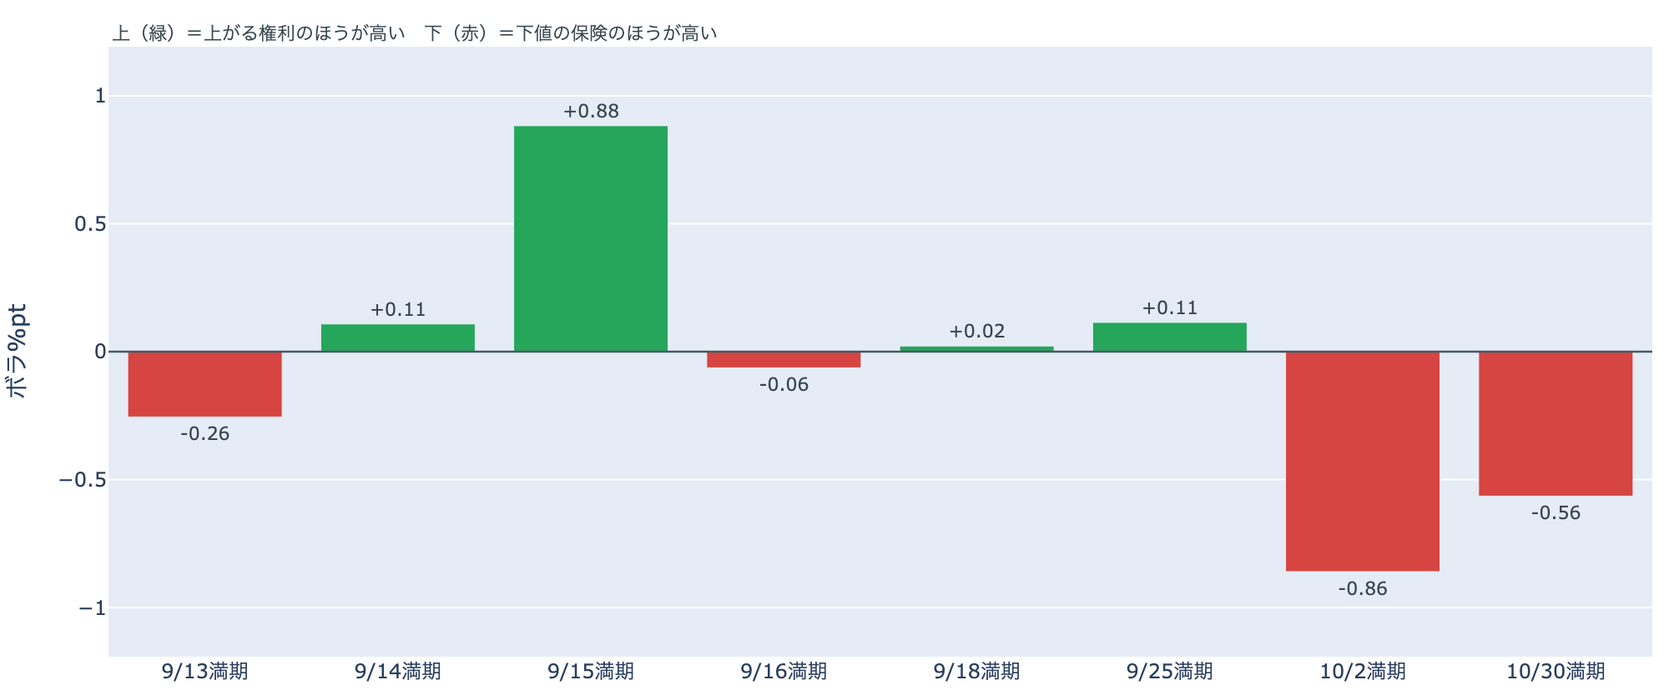
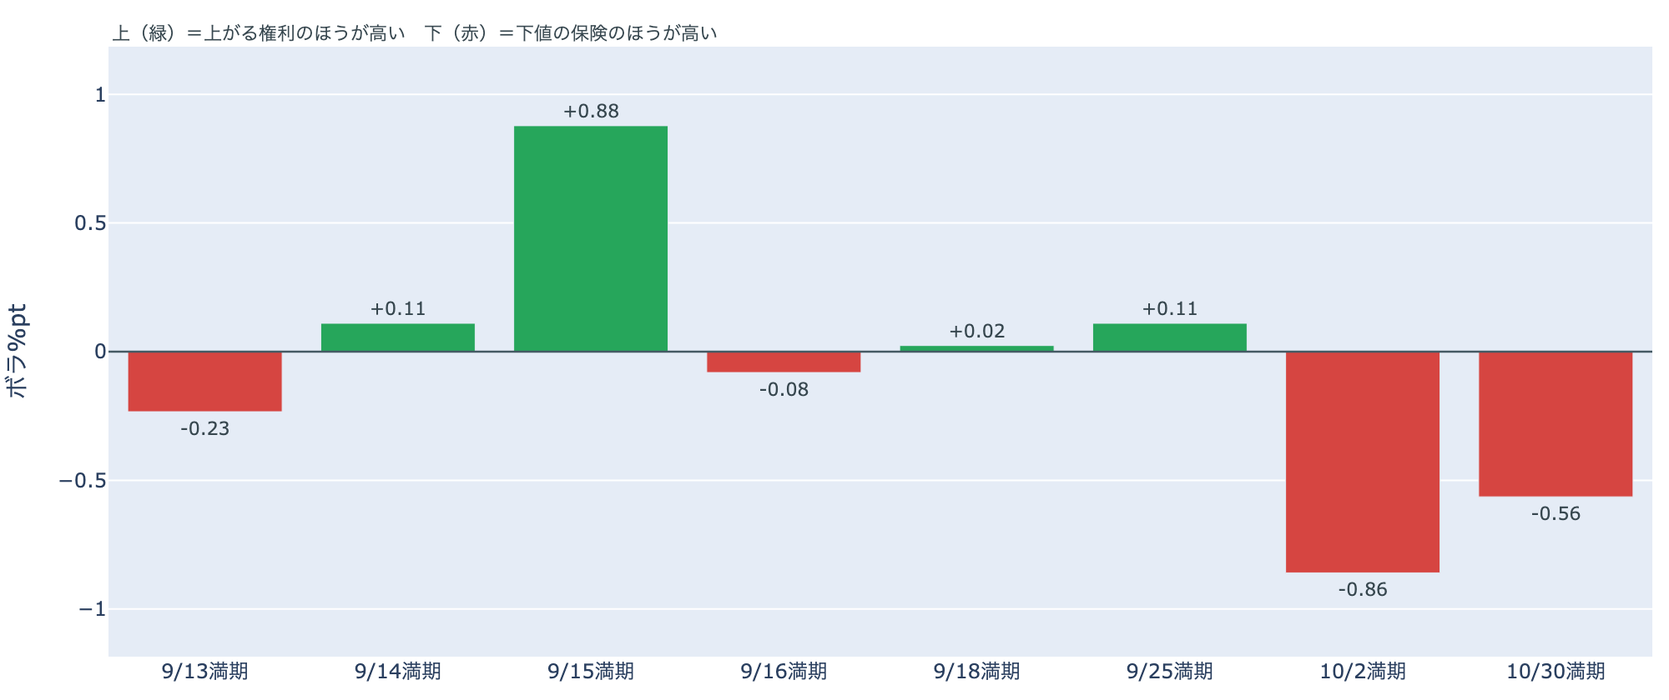
report(2026-09-13): 値幅0.6%の週末、建玉は減り止まった ― 9月25日の下値の保険は1日で剥がれ、備えが残るのは10月2日以降の満期だけ
ヘッドレス生成を Fable で作り直した版に差し替え。資金調達率の上乗せは
日次平均の年率を明記して引き算が閉じる形に直した（export が8時間の1点と
日次平均の2基準を出しており、本文が基準を混ぜていた）。図は macro_relative を追加し11枚。

Claude-Session: https://claude.ai/code/session_013CNs9m2S2fiXNY7GAkLf2i

diff --git a/market-reports/2026-09-13/README.md b/market-reports/2026-09-13/README.md
@@ -1,19 +1,19 @@
-# 5%往復の翌日は値幅0.6%の静けさ ― 建玉は減り止まり、9月25日に向けた下値の保険は1日で消えた
+# 値幅0.6%の週末、建玉は減り止まった ― 9月25日の下値の保険は1日で剥がれ、備えが残るのは10月2日以降の満期だけ
 
 **2026年9月13日**
 
-金曜夜に$79,800と$76,000を往復した価格は、週末に入ると$77,000台で止まりました。24時間の値幅は0.6%で、崩れも戻りもありません。動かなかった理由は中身にあります。**金曜に一気に閉じられた買い持ちの整理が一巡し、新たに降りる人も積む人もいなかった**からです。先物の買い持ちが払う金利は置いておくだけの金利を再び上回り、前日に初めて出た「9月25日に向けた下値の保険」は1日で消えました。外部環境は週末で動いていません。米国の現物買いだけが「止まったまま」で、そこが唯一まだ答えの出ていない場所です。
+土曜日の24時間、価格は$77,050〜$77,495の幅0.6%に収まりました。前夜の5%往復で薄くなった先物の買い持ちはそこで減り止まり、清算はゼロ。株・原油・金利の市場は閉まっていて、BTC自身の持ち高も動いていません。**動かなかった日**です。市場参加者の見方で前日から変わったのは一つで、**9月25日に向けて前日に付いた「下がったときの保険」の値段が1日で剥がれ、備えが残っているのは10月2日以降の満期だけ**になりました。週明けには法案の採決・米国の利上げ判断・日銀の会合が3日続けて並びます。
 
-（数値は9月13日7時5分（日本時間）までに取得した各種データに基づきます。価格・先物・オプションはその時点の実勢、市場心理は9月12日の確定値、オンチェーン指標は9月11日時点、ETF資金フローは9月11日（金曜）分まで（週末は集計がありません）。外部環境の終値は9月11日（金曜）時点。なお、オンチェーンの保有・年齢の指標には、ETF・取引所が預かっている分も含まれています。オプションはDeribit（BTCオプション建玉の大半を占める取引所）の全銘柄です。）
+（数値は9月13日7時5分（日本時間）までに取得した各種データに基づきます。価格・先物・オプションはその時点の実勢、市場心理は9月12日の確定値、オンチェーン指標は9月11日時点、ETF資金フローは9月11日分までです。外部環境の終値は9月11日時点で、週末のため更新がありません。なお、オンチェーンの保有・年齢の指標には、ETF・取引所が預かっている分も含まれています。オプションはDeribit（BTCオプション建玉の大半を占める取引所）の全銘柄です。）
 
 ## 定点観測：毎日同じ4つを見る
 
 話題は日替わりでも、この4つはどんな日も同じ場所に置きます。「いつもと違うか」を毎日同じ目で見るための物差しです。
 
-* **移動平均の並び**: 上向き5日目。50日線が200日線を上回るゴールデンクロス圏で、差は約$815（1.16%）と前日の$616からさらに開き、1%を超えてきました。価格は50日線の約9%上です。
-* **米国の買い（Coinbase Premium）**: 1週間平均で−0.03%。先週は−0.02%。その日の値は−0.07%で、前日の−0.19%からいつものブレの範囲内に戻りました。
-* **ETFの資金の出入り**: 直近7営業日で+5.4億ドルの入り超。確定分は4営業日続けて流出ですが、最終日の9月11日は−0.1億ドルで、前日の−2.8億ドルから幅がほぼ消えました。
-* **市場心理（Fear & Greed）**: 63の「強欲」。前日比+7ptで、前日の13pt後退を半分戻しました。1週間前は73、30日前は29です。
+* **移動平均の並び**: 上向き5日目。50日線が200日線を上回るゴールデンクロス圏で、差は約$815（1.2%）と前日の$616から開きました。価格は50日線の約9%上です。
+* **米国の買い（Coinbase Premium）**: 1週間平均で−0.03%。先週は−0.02%。その日の値−0.07%は、前日の−0.19%（いつものブレの3倍）からブレの内側に戻りました。
+* **ETFの資金の出入り**: 直近7営業日で+5.4億ドルの入り超。確定分は4営業日続けて流出ですが、9月11日分は−0.1億ドルと、前日の−2.8億ドルから幅が大きく縮みました。
+* **市場心理（Fear & Greed）**: 63の「強欲」。前日の56から7pt戻し、1週間前は73、30日前は29です。
 
 ![BTC価格と50日・200日移動平均](price.png)
 
@@ -23,87 +23,87 @@
 
 前日に書いた説明が、そのあとの動きと合っていたかを先に確かめます。予想の当て外れではなく、説明の妥当性の確認です。
 
-* ✔ **「金曜夜の5%往復は外部環境ではなく、レバレッジの整理だった」** — 合っていました。前日に「この説明が違うなら」として挙げた形（建玉が減り続けて価格が戻らず、資金調達率がマイナスに定着する）は出ていません。建玉（＝先物の未決済残高）は横ばい、資金調達率（＝先物の買い持ちが払う金利）はプラスのまま前日より上がり、清算は0件でした。
-* ✘ **「買いの勢いを測る数字が3つそろって抜けた」** — 3つのうち2つは1日で戻りました。先物の上乗せは短期金利すれすれ（+0.7pt）から+1.8ptへ、市場心理は+7ptで半分戻し。日次の振れを材料にしすぎていました。残っているのは米国の現物買いの弱さだけで、下の③で扱います。
-* — **「米国の現物買いは『止まった』から『引き始めた』へ動きかけている」** — まだ判定できません。週末はETFの集計が無く、判定に使える数字が増えていません。ただし手元の数字は前日より弱くなく、Coinbase Premiumの日次は−0.19%から−0.07%へ戻り、ETFの9月11日分は流出幅が−0.1億ドルまで縮みました。
-* ✔ **「長期側は前日と同じ姿で、中身の土台は変わっていない」** — 合っていました。9月11日時点の長期側は「量が減り、動いた分は利益側」の並びのままです。
+* ✔ **「5%の往復は外に押されたのではなく、証拠金の買い持ちが整理されたもの」** — 合っていました。需要の後退なら建玉が減ったあとも価格が戻らず資金調達率がマイナスに定着する形でしたが、翌日は建玉が減り止まり、資金調達率はプラスのまま、価格は$77,000台を保ちました。
+* ✘ **「9月25日をまたぐ期間の下値の保険が初めて上値の権利より高くなった＝来週の会合と四半期満期に向けた備え」** — 1日で合わなくなりました。9月25日満期の傾きは上がる権利がわずかに高い側へ戻り、持ち高は動いていません。前日の値付けは物価指標の夜に付いた一晩の値段だった、と説明し直します（下の3.②）。
+* — **「米国の現物買いは『止まった』から『引き始めた』へ動きかけている」** — まだ判定できません。Coinbase Premiumはブレの内側に戻り、ETFの9月11日分は流出幅が縮みました。「引き」は加速していませんが、週末で新しい数字がありません。
+* ✔ **「長期側は前日と同じ姿。利益での手放しが続き、勢いは半分のまま」** — 合っていました。9月11日時点も量は減り、動いた分は利益側で、1週間同じ幅です（下の3.④）。
 
 ## 1. 何が起きたか
 
 ![BTC価格の推移（1時間足・直近7日）](intraday.png)
 
-朝7時5分時点で約$77,300。24時間では+0.2%、レンジは$77,050〜$77,495で幅は0.6%です。金曜夜の往復のあと、土曜は一度も$77,000を割らず、$77,500も超えていません。1週間で最大の振れの翌日に、1週間で最小の値幅が来た形です。7日前比では−3.2%、30日前比では+21.8%。Hyperliquid（＝オンチェーンの先物取引所）で観測できた清算（＝証拠金不足で強制的に閉じられた取引）はこの24時間で0件でした。
+朝7時5分時点で約$77,258。24時間で+0.2%、レンジは$77,050〜$77,495で幅0.6%です。前夜の往復（幅5%）の8分の1で、この7日間で最も静かな24時間でした。7日前比では−3.2%、30日前比では+21.8%。Hyperliquid（＝オンチェーンの先物取引所）で観測できた清算（＝証拠金不足で強制的に閉じられた取引）は、この24時間で0件です。
 
-外部環境は週末で閉まっています。最後の確定は9月11日（金曜）で、S&P500は+0.9%と反発、VIX（＝株式市場の恐怖指数）は−11%、WTI原油は−2.4%で$100.05、米10年債利回りは4.97%へ上昇。5営業日ではS&P500が−1.2%、原油が+9.6%で、株安・原油高の週でした。BTCの30日相関は株と+0.20、金と+0.69です。
+外部環境は週末で休場です。金曜9月11日の終値は、S&P500が+0.9%、原油は−2.4%でちょうど$100、米10年債利回りは4.97%。5営業日で見ると、原油が+9.6%、株が−1.2%、金が−2.8%。BTCの−3.2%は、株よりも金の下げ幅に近い並びでした。
 
 ## 2. なぜ動いたか：中身か、外か
 
-今日は「なぜ動かなかったか」を切り分けます。
+![BTCと主要マクロ資産の相対推移（起点＝100）](macro_relative.png)
 
-* **見える**: 外部環境はこの24時間、何も動いていません（市場が閉まっています）。BTC自身の持ち高は、建玉が103,218BTCで前日とほぼ同じ（1週間では−4.2%のまま）。資金調達率は8時間あたり+0.0045%（年率換算 約+5.0%）で、短期金利を引いた上乗せは+1.78pt。前日の+0.73ptから戻りました。オプション全体の保険料は36.8で、過去1年の下から16%の位置です。
-* **読み**: 金曜夜に起きたのはレバレッジ（＝元手より大きな金額を建てること）の整理で、それが一巡したのが土曜です。閉じられるべき持ち高は閉じられ、残った買い持ちは金利を払って残っています。降りる人が止まり、新しく積む人もいない。**中身は変わっていません。週末の静けさは「整理が終わった」の形です。**
-* **この説明が違うなら**: 整理がまだ終わっていないなら、週明けに出来高が戻ったとき、建玉がさらに減りながら価格が下げ、資金調達率がマイナスに転じる形で見えます。整理が終わっているなら、建玉は横ばいか増加で、資金調達率はプラスのままです。
+* **見える**: 外の市場が閉まっている24時間で、BTCの動きも0.6%。建玉（＝先物の未決済残高）は103,218BTCで前日（103,303BTC）とほぼ同じ、7日では−4.2%。資金調達率（＝先物の買い持ちが払う金利）は8時間あたり+0.0045%（年率換算 約+5.0%）で、前日の同じ時間帯の年率3.1%から小幅に戻りました。1日を通してならした年率は+5.69%で、短期金利（13週Tビル 3.91%）を引いた上乗せは+1.78pt。前日の+0.73pt（ならした年率+4.64%）から広がっています。清算は0件。短期保有層の平均取得原価は9月11日時点で$71,150で、価格はその約8%上です。BTCと金の30日相関は+0.69、株とは+0.20。
+* **読み**: 今日は「なぜ動いたか」を探す日ではなく、**前夜の整理が一巡して、新しい持ち高がどちら側にも積まれていない**日です。建玉が減り止まり、資金調達率がプラスのまま戻ったことは、追加の投げが出ていないことと、買い持ちが残っていることの両方を示します。参加者は前夜の5%往復を流れの変化ではなく、一時的な押しとして扱いました。直近に買った人の平均取得原価より価格が上にあるので、含み損から強いられる売りも出ていません。1週間の目で見ると、BTCは金と同じ幅で下げ、株は半分、原油は上げています。**この1週間の下げは外部環境（原油高と金利上昇）と並んで起き、土曜日はその外部環境が止まったので、BTCも止まった**、というのが最も単純な説明です。
+* **この説明が違うなら**: 一巡ではなく静かな撤退が続いているなら、週明けに外の市場が開いたあとも建玉が減り続け、資金調達率がゼロ近辺からマイナスへ沈み、上がる権利の値段が全満期で下値の保険を下回る形になります。
 
-価格のいる$70,000〜$80,000の帯には、9月11日時点の分布で全供給の10.7%が積まれています。上端の$80,000までは3.5%、すぐ上の$80,000〜$90,000には9.4%です。
+原油の金曜の−2.4%は、ホルムズ海峡の航行をめぐるイランと湾岸諸国の外相協議が9月14日にオマーンで開かれるという報道と並んで起きました。原油は依然$100の水準で、リスク資産全体の重しになりうる状況は変わっていません。
 
 ## 3. 市場参加者はいまどう見ているか
 
-### ① 先物：買い持ちの減少が止まり、上乗せは短期金利の上へ戻った
+### ① 先物：薄くなった買い持ちが、そのまま残っている
 
 ![先物: 資金調達率と建玉](futures.png)
 
-* **見える**: 資金調達率はプラスが22回連続（約7日）で、8時間あたり+0.0045%（年率換算 約+5.0%）。前日から上がりましたが、30日平均は下回っています。短期金利（13週Tビル 3.91%）を引いた上乗せは+1.78ptで、直近34日の平均+3.44ptの半分。建玉は103,218BTCで、9月3日の急騰時に積まれた分が消えた水準のまま横ばいです。
-* **読み**: 傾きは弱まったままですが、減り止まりました。買い持ち（ロング）が払う金利が、置いておくだけの金利を再び上回った。つまり**上に賭けている人は残っていて、降りる動きは金曜で終わった**という形です。上限（8時間あたり±0.3%）には遠く、過熱ではありません。
-* **この説明が違うなら**: 降りる動きが終わっていないなら、建玉が減り続け、上乗せが再び短期金利を割り込む形で見えます。
+* **見える**: 資金調達率はプラスが22回連続（約7日）で、8時間あたり+0.0045%（年率換算 約+5.0%）。30日平均（0.0066%）の7割弱の水準です。1日を通してならした年率+5.69%から短期金利（13週Tビル 3.91%）を引いた上乗せは+1.78pt。建玉は103,218BTCで、9月3日の急騰時に積まれた分が消えた水準に1日とどまっています。
+* **読み**: 買い持ち（ロング）に傾いた状態は続き、傾きは前日ほど弱くありません。前夜に1段薄くなった買い持ちが、そこから逃げもせず積み増しもせず、**そのまま残っている**形です。上限（8時間あたり±0.3%）には遠く、過熱ではありません。
+* **この説明が違うなら**: 残った買い持ちが手仕舞いに向かっているなら、週明けに建玉が再び減り、資金調達率がゼロ近辺へ沈みます。逆に新規の買い持ちが入るなら、建玉が増えて資金調達率が30日平均を上回ります。
 
-### ② オプション：9月25日に向けた下値の保険は1日で消え、備えは10月以降だけに残った
+### ② オプション：9月25日の保険は剥がれ、備えは10月2日以降の満期だけ
 
 ![オプション: 満期ごとの保険料](options_iv_term.png)
 
 ![オプション: 満期ごとの傾き](options_skew.png)
 
-* **見える**: 全体の保険料（DVOL）は36.8で、過去1年の下から16%。直近30日に実際に起きた変動（47.6）より10.8pt安いままです。満期ごとの保険料は手前ほど低く先ほど高い平常の形で、特定の日を警戒する値段は付いていません。傾きは、前日に「下値の保険が高い」へ転じていた9月25日満期がほぼ差なしに戻りました。下値の保険が高いのは10月2日満期と10月30日満期だけです。9月15日満期は上がる権利のほうがはっきり高く、9月16日満期はほぼ差なし。
-* **読み**: 前日の一番の変化だった「9月25日をまたぐ区間の備え」は、1日で外されました。参加者が備えを残しているのは10月以降で、**来週の法案採決と金利会合をまたぐ満期には、下向きの備えが付いていません。** 9月15日満期で上がる権利が高いのは、その日のイベントを上向きに見ている人のほうが多いという値段です。全体の保険料が実際の変動より安いままなので、水準としては「保険を買う人が少ない」側で、恐怖ではありません。
-* **この説明が違うなら**: 備えを外したのではなく週末で気配が薄いだけなら、週明けに9月25日満期の傾きが再び下値の保険側へ戻り、全体の保険料が実際の変動へ近づく形で見えます。
+* **見える**: 全体の保険料は36.9で、過去1年の下から16%の位置。実際に起きた変動（47.6）より10.6pt安いままです。満期ごとの保険料は手前が低く先が高い平常の形で、9月16日（FOMCの日）にも突出はありません。**傾きは満期の途中で符号が変わっています。** 9月15日満期は上がる権利が明確に高く（+0.88）、9月25日満期は+0.11でほぼ差なし。**前日に下値の保険が高かった9月25日の値付けは1日で消え**、下値の保険が高いのは10月2日満期（−0.86）と10月30日満期（−0.56）だけになりました。
+* **読み**: 参加者は「来週の会合と法案採決、そして9月25日の四半期満期までは荒れない」という値付けに戻り、**備えを10月以降の満期に置いています**。全体の保険料が実際の変動より安いままなので、守りを固めている状態ではなく、恐怖の水準でもありません。9月15日満期で上がる権利が高いのは、法案採決の日に上への賭けが乗っている形です。持ち高（下）が変わらず値段の付き方だけ戻ったので、前日の保険は買い足されたのではなく、一晩の値段が付いて剥がれたと読みます。
+* **この説明が違うなら**: 「荒れない」という値付けが誤っているなら、週明けに9月16日・18日満期の保険料が跳ね、9月25日満期で下値の保険が再び上がる権利を上回る形になります。
 
 ![オプション: 9月25日満期の持ち高](options_oi.png)
 
-* **見える**: 9月25日満期の建玉は185,020BTCで全満期の45%。現値より上の権利（コール）が約9.4万BTC、下の保険（プット）が約5.4万BTCで、前日とほぼ同じです。現値の+15%以上に賭けた権利が約4.9万BTC、−15%以下の保険が約3.2万BTC。マックスペイン（＝買い手の損失が最大になる満期価格）は$72,000で、現値の7%下にあります。持ち高が集中しているのは$78,000（12.7%）と$80,000（11.0%）の帯です。
-* **読み**: 持ち高の形は2日続けて動いていません。動いたのは値段の付き方だけで、前日に買い足された保険が今日は外れた。**上に賭けた人は降りていません。** 上に賭けた持ち高が報われるには$80,000の帯を取り戻す必要がある、という構図はそのままで、その期限が9月25日です。
+* **見える**: 9月25日満期の持ち高は185,020BTCで全満期の45%。現値より上の権利（コール）が約9.4万BTC、下の保険（プット）が約5.4万BTCで、前日とほぼ同じ形です。現値の+15%以上に約4.9万BTC、−15%以下に約3.2万BTC。マックスペイン（＝買い手の損失が最大になる満期価格）は$72,000で、現値の7%下です。オプションの集中（＝満期に向けて価格が引き寄せられやすい水準）は$78,000に12.7%、$80,000に11.0%、$75,000に8.5%で、**価格はその帯の中**にいます。
+* **読み**: 上に賭けた持ち高のほうが多い形は変わらず、上に賭けた側は降りていません。その持ち高が報われるには帯の上端$80,000より上が要り、期限は9月25日です。マックスペインについては、満期に向けて引き寄せられる力が働くと言われる水準がいまより7%下にある、という構図の説明までにとどめます。
 
-### ③ 米国の現物買い：「引き始めた」ではなく「止まっている」
+### ③ 米国の現物買い：「止まっている」が続き、「引き」は加速していない
 
 ![Coinbase Premium](premium.png)
 
 ![ETF 日次 純流出入](etf_daily.png)
 
-* **見える**: Coinbase Premium（＝米国とそれ以外の価格差）は1週間平均で−0.03%、先週は−0.02%。その日の値は−0.07%で、いつものブレの1.2倍と範囲内です。前日の−0.19%（ブレの3倍）は1日で消えました。ETF（＝証券口座で買えるBTCの投資信託）は9月8日から4営業日続けて流出で、幅は−0.5億 → −1.2億 → −2.8億 → −0.1億ドル。7営業日の合計はまだ+5.4億ドルの入り超です。
-* **読み**: 前日は「引き始めている可能性」と書きましたが、今日の数字はそこまで弱くありません。1週間平均の−0.03%は8月中旬の−0.10%とは距離があり、ETFの流出も最終日に幅がほぼ消えています。**米国側の買い手は止まっている。引いてはいない。** 前日の−0.19%は物価統計の夜の1日の歪みでした。なお、1年以上動いていない供給は9月11日時点で63.1%と3か月で+1.6pt厚くなっており、同じ規模の買いでも価格が動きやすい下地は続いています。
-* **この説明が違うなら**: 止まっているのではなく引いているなら、週明け以降の集計で流出幅が再び広がり、Premiumの1週間平均が8月中旬の水準へ向かって沈む形で見えます。
+* **見える**: Coinbase Premium（＝米国とそれ以外の価格差）は1週間平均で−0.03%、先週の−0.02%からわずかに下向き。その日の値−0.07%はいつものブレの1.2倍で、前日の3倍から内側に戻りました。ETF（＝証券口座で買えるBTCの投資信託）は9月11日分が−0.1億ドルで、流出は4営業日連続ですが、幅は−0.5億 → −1.2億 → −2.8億 → −0.1億と最終日で急に縮みました。7営業日の合計はまだ+5.4億ドルの入り超です。
+* **読み**: 前日に「引き始めた可能性」と書いた動きは、金曜の数字では加速しませんでした。米国側の買い手は**止まっているが、引いてはいない**、が今朝の読みです。1週間平均の−0.03%は8月中旬（−0.10%）とは水準が違います。1年以上動いていない供給は9月11日時点で63.1%と3か月で1.6pt厚く、同じ規模の買いでも価格が動きやすい下地です。
+* **この説明が違うなら**: 9月14日以降も流出が続き、Premiumの1週間平均が−0.05%を下回って沈むなら、「引き始めた」に言い直します。
 
-### ④ 長期側：利益での手放しが続くが、勢いは前週の3分の2に落ちた
+### ④ 長期側：利益での手放しは続くが、量は1週間横ばい
 
 ![長期保有層: ネットポジション変化と損益](lth.png)
 
-* **見える**: 長期勢SOPR（＝長期勢の損益）は1週間平均で1.14（先週 0.99）。長期保有層のネットポジション変化（＝長期勢の保有量の30日増減）は9月11日時点で−9.9万BTCで、1週間平均−9.9万BTCは先週の−15.1万BTCから縮み、30日前の−15.2万BTCと比べても3分の2です。
-* **読み**: 量は減り、動いた分は利益側。この2本がそろっているので「分配」と書けます。ただし勢いは落ちていて、8月の急騰後に加速した手放しは、9月に入って明らかに緩んでいます。週末の値動きにこの層は関わっていません。**中身の土台が変わっていないと言える根拠はここです。** 預かり分の混入を差し引いても、この規模と方向は変わりません。
+* **見える**: 長期勢SOPR（＝長期勢の損益）は1週間平均で1.14（先週 0.99）。長期保有層のネットポジション変化（＝長期勢の保有量の30日増減）は9月11日時点で−9.9万BTC。1週間平均−9.9万BTCは先週の−15.1万BTCから3分の2に縮み、8月末（−27万BTC前後）の4割弱。この1週間は−8.4万〜−10.3万BTCの幅に収まっています。
+* **読み**: 量は減り、動いた分は利益側で、**分配（＝長期側からの放出）の並びは続いています**。ただし勢いは落ち着き、1週間同じ幅にとどまっている。土曜の静けさはこの層が動いていない結果です。**中身の土台は前日と変わっていません。** 預かり分の混入を差し引いても、この規模と方向は変わりません。
 
-今日は取得原価の分布（＝コインが最後に動いた価格の分布）に帯またぎがなく、長く眠っていたコインが動いた記録もないので、その話はありません。マイナー（＝採掘業者）の収入は平年並み（Puell 1週間平均 1.00）で、売りを急ぐ状況ではありません。
+今日は取得原価の分布（＝コインが最後に動いた価格の分布）に帯またぎがなく、長く眠っていたコインが動いた記録もないので、その話はありません。価格のいる$70,000〜$80,000の帯には全体の10.7%、上端の$80,000まで3.5%、その上の$80,000〜$90,000には9.4%のコインが積まれています。マイナー（＝採掘業者）の収入は平年並み（Puell 1週間平均 1.00）で、売りを急ぐ状況ではありません。
 
 ## 4. 価格に影響しうる直近のイベント
 
-予測ではなく、「次に市場が反応しうる材料」の案内です。オプション市場が備えを買っているのは10月2日以降の満期で、来週の2つのイベントには備えが付いていません。
+予測ではなく、「次に市場が反応しうる材料」の案内です。オプション市場が備えを置いているのは10月2日以降の満期で、来週の3つの会合と9月25日の区間には、今朝の時点で備えの値段が付いていません。
 
-* **9/14（月）**: 米国市場とETFの集計が再開。米国の買いが「止まったまま」かを測る最初の数字。
-* **9/15（火）14:15 米東部（日本時間16日 3:15）**: 米上院でCLARITY法案（＝暗号資産の市場構造法案）の審議入りを問う手続き投票。60票が必要で、通らなければ今年の審議は止まると報じられている。オプションではこの日の満期で上がる権利のほうが高い。
-* **9/15〜16: FOMC（＝米国の金利を決める会合）**。決定は16日午後（日本時間17日 3:00）。0.25%の利上げの織り込みが過半と報じられている。ドル・金利・株の割引率に効く。
-* **9/17〜18**: 日銀の会合。円と、低金利の円で調達した資金の経路に効く。
-* **9/25（金）17:00**: オプションの四半期満期（約18.5万BTC・全満期の45%）。上に賭けた持ち高の期限。
-* **10/2（金）**: 下値の保険が高い最初の満期。月初の金曜に出る米雇用統計の日程に重なる。
+* **9/14（月）**: ETFの集計と米国の株・原油・金利の取引が再開。米国の買いが「止まっている」のままかどうかの最初の数字。
+* **9/14（月）**: ホルムズ海峡の航行をめぐるイランと湾岸諸国の外相協議（オマーン・サラーラ）。原油に効く。
+* **9/15（火）〜16（水）**: FOMC（＝米国の金利を決める会合）。0.25%利上げの織り込みは6〜8割と報じられている。結果は日本時間17日早朝。
+* **9/15（火）14:15 米東部時間（日本時間16日3:15）**: 米上院でCLARITY法案（＝暗号資産の市場構造法案）を審議に進めるかの手続き投票。60票が必要。オプションの9月15日満期で上がる権利が高いのはこの日。
+* **9/17（木）〜18（金）**: 日銀の会合。0.25%利上げの織り込みは6割と報じられている。
+* **9/25（金）17:00**: オプションの四半期満期（約18.5万BTC、全満期の45%）。上に賭けた持ち高の期限。
 
-## まとめ：週末の動きは何だったか
+## まとめ：土曜日の動きは何だったか
 
-週末の値幅0.6%は、**金曜のレバレッジ整理が一巡した形**です。建玉は減り止まり、上乗せは短期金利の上へ戻り、清算は0件。長期側は「量が減り、動いた分は利益側」のまま勢いを落としていて、中身の土台は変わっていません。前日に「3つそろって抜けた」と書いた買いの勢いの数字は2つが1日で戻り、残ったのは米国の現物買いが止まっていることだけです。参加者の見方で変わったのは一つ。**9月25日をまたぐ区間の下値の保険が1日で外れ、来週の法案採決と金利会合には下向きの備えが付いていない。** 中身が変わっていない日は何もしなくてよい。確かめる数字は、週明けに再開する米国の買いです。
+土曜日は、外部環境が止まり、BTCの持ち高も止まった日でした。建玉は減り止まり、清算はゼロ、長期側は前日と同じ姿。中身は変わっていません。変わったのは一つ、**9月25日に向けて前日に付いた「下がったときの保険」が1日で剥がれ、備えが10月2日以降の満期にだけ残った**こと。参加者は来週の3つの会合と四半期満期の区間を「荒れない」側に値付けし直し、上に賭けた持ち高もそのまま残しています。米国の現物買いは「止まっている」が続き、「引いた」とは言えない。中身が変わっていない日は、何もしなくてよい日です。週明けに動くのは外部環境のほうで、それを同じ4つの物差しで見ます。
 
 ---
 

diff --git a/market-reports/README.md b/market-reports/README.md
@@ -4,7 +4,7 @@
 
 ## 2026年9月
 
-- **9月13日** — [5%往復の翌日は値幅0.6%の静けさ ― 建玉は減り止まり、9月25日に向けた下値の保険は1日で消えた](2026-09-13/)
+- **9月13日** — [値幅0.6%の週末、建玉は減り止まった ― 9月25日の下値の保険は1日で剥がれ、備えが残るのは10月2日以降の満期だけ](2026-09-13/)
 - **9月12日** — [物価指標をはさんで$79,800と$76,000を往復 ― 大口ロング1件の清算を伴い、米国の買いは10か月で最も弱い水準へ](2026-09-12/)
 - **9月11日** — [週の安値$76,600まで押して7日前比-5% ― 長期側で動いた分は原価割れに転じ、米国の買いは3週間半ぶりの弱さ](2026-09-11/)
 - **9月10日** — [ブレント原油が$100に乗せた日、BTCは値幅2.4%の小動き ― 長期側の減少幅は5日ぶりに縮み、心理は5日続けて後退](2026-09-10/)
